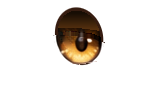
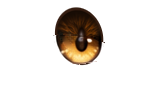
Integrate approved upper-iris part repair [skip ci]
Reuse the exact two reviewed iris textures with their guarded authored caps. Preserve all twenty expression profiles, runtime code, original source art, and import settings. Record provenance and narrowly scoped validation; no new expression or eye-opening qualification.

diff --git a/ryoko_object_rig/tools/verify_approved_integration.py b/ryoko_object_rig/tools/verify_approved_integration.py
@@ -9,15 +9,17 @@ read=lambda n:json.loads((P/n).read_text())
[1 lines of base64/hex data omitted]
 assert not any(p.is_symlink() for p in P.rglob('*')),'symlinks forbidden'
 files={p.relative_to(P).as_posix():sha(p) for p in sorted(P.rglob('*')) if p.is_file()}
-assert len(files)==664,'missing or extra source files, including generated caches'
+assert len(files)==666,'missing or extra source files, including generated caches'
[1 lines of base64/hex data omitted]
 assert all(files[n]==h for n,h in frozen.items()),'historical source evidence changed'
 source=read('DARING_PROVOCATION_SOURCE_MANIFEST.json')['files']|frozen
[1 lines of base64/hex data omitted]
 overlay={'README.md','CONTROL_API.md','LOCAL_CONTROL_BRIDGE.md','PACKAGING.md','RELEASE.json','APPROVED_INTEGRATION_STATUS.json','APPROVED_SOURCE_MANIFEST.json','APPROVED_SOURCE_FILES.sha256','tools/verify_approved_integration.py','expressions/registry.json'}
[1 lines of base64/hex data omitted]
+overlay |= set(repair_hashes)
 assert set(source)<=set(files)
 assert {n for n in source if files[n]!=source[n]}==overlay,'unexpected source delta'
-assert set(files)-set(source)=={'APPROVED_DARING_PROVOCATION_VALIDATION.md','APPROVED_NERVOUS_LAUGH_VALIDATION.md','NERVOUS_LAUGH_CANDIDATE.md','expressions/EXP-148.json'}
+assert set(files)-set(source)=={'APPROVED_DARING_PROVOCATION_VALIDATION.md','APPROVED_NERVOUS_LAUGH_VALIDATION.md','NERVOUS_LAUGH_CANDIDATE.md','expressions/EXP-148.json','UPPER_IRIS_REPAIR.md','UPPER_IRIS_REPAIR.json'}
 assert files['APPROVED_DARING_PROVOCATION_VALIDATION.md']==C['historical_validation_sha256']
 m=read('APPROVED_SOURCE_MANIFEST.json')
 assert m['schema_version']==3 and m['approved_profiles']==20
@@ -53,7 +55,12 @@ assert files['expressions/EXP-148.json']==C['published_profile_sha256']
 assert digest({k:v for k,v in d.items() if k!='status'})==C['acting_sha256']
 assert d['status'].startswith('User-approved') and d['duration']==3.6
 pngs=[n for n in files if n.endswith('.png')];assert len(pngs)==182
-assert all(files[n]==source[n] for n in pngs)
+assert all(files[n]==source[n] for n in pngs if n not in repair_hashes)
+assert all(files[n]==h for n,h in repair_hashes.items())
+part=read('UPPER_IRIS_REPAIR.json')
+assert part['status']=='user_approved_part_repair_integrated' and part['approved_profile_count']==20
+assert part['new_expression_or_eye_opening_capability'] is False
+assert all(part['textures'][eye]['integrated_sha256']==repair_hashes[part['textures'][eye]['path']] for eye in ['screen_left','screen_right'])
 assert sorted(n for n in files if n.endswith('.import'))==['rig_assets/gaze_eyes/iris_screen_left.png.import','rig_assets/gaze_eyes/iris_screen_right.png.import']
 s=read('APPROVED_INTEGRATION_STATUS.json');r=read('RELEASE.json')
 assert s['approved_profile_ids']==r['approved_registry']==ids
@@ -68,4 +75,4 @@ assert all(s[k] is False for k in ['live_engine_pacing_measured','normal_speed_p
 assert s['smooth_realtime_pacing_status']==r['smooth_realtime_pacing_status']=='UNVERIFIED'
 assert s['inherited_exp114_qualification']['smooth_realtime_pacing_status']=='HOLD'
 assert {'EXP-097','EXP-187'}<=set(s['excluded_profile_ids'])
-print('APPROVED_INTEGRATION_GUARD PASS files=664 profiles=20 old_profiles_exact=19 pngs_exact=182 accepted_acting_exact=true runtime_exact=true live_pacing=UNVERIFIED')
+print('APPROVED_INTEGRATION_GUARD PASS files=666 profiles=20 all_profiles_exact=true pngs_preserved=180 approved_repair_pngs=2 accepted_acting_exact=true runtime_code_exact=true live_pacing=UNVERIFIED')

diff --git a/ryoko_object_rig/UPPER_IRIS_REPAIR.md b/ryoko_object_rig/UPPER_IRIS_REPAIR.md
@@ -1,0 +1,19 @@
+# Approved upper-iris part repair
+
+The user approved the two-part comparison before this integration. The exact reviewed textures now replace only the two active gaze iris PNGs. This is newly authored hidden upper-iris/pupil continuation, not recovered original detail. It adds no expression or eye-opening control.
+
+## Scope and preservation
+
+The predecessor is main f3848b3f9ebf365b144f3aadae1cd321665a10fc, whose shared rig is tree e01bda668f821c1bd57210f4eabfa5975859daa7. All twenty expression profiles and the registry, runtime code, scenes, shaders, controls, original source art, and both iris import sidecars remain byte-identical. Of 182 existing PNGs, exactly two change. No files are removed and all other repository roots, including historical backups, remain intact.
+
+The exact reviewed pixels are reused without regeneration or additional painting. Left and right guarded masks cover 1,097 and 886 texels; 1,096 and 880 texels actually change. All alpha and every RGBA value outside those masks remain identical. The one-pixel neutral-aperture guard is untouched. The existing native review captures on this exact base prove pixel-identical centered-neutral eye and bust views. Integration rechecks those saved images and exact source identities; it does not claim a new renderer run or full twenty-expression visual regression.
+
+## Provenance
+
+The original generation, registered mask assembly and review are documented in the [frozen proposal backup](https://github.com/TianJieHeng/ryoko-vtuber/tree/f3848b3f9ebf365b144f3aadae1cd321665a10fc/unapproved/upper-iris-repair-proposal). That folder's unapproved label records its historical backup state and is not modified. Its two proposals are identical to the integrated active textures. Its guarded masks preserve the precise newly authored boundary. UPPER_IRIS_REPAIR.json records exact source, output and mask hashes.
+
+## Verification and limits
+
+Run `python -B tools/verify_approved_integration.py` and `sha256sum -c APPROVED_SOURCE_FILES.sha256` from a clean source copy. The current guard recognizes only these two approved artwork exceptions and continues enforcing unchanged profiles, registry, runtime and other artwork. Earlier validation files retain their original scope and source identities; current manifests supersede their source inventories.
+
+The reviewed fixed 4px fixture remains a private diagnostic, not an accepted production capability. A thin protected-pixel transition and some inherited right highlight streak remain visible when enlarged. Larger openings, general gaze/blink behavior and smooth real-time pacing are not newly qualified. Previous expression holds and exclusions remain unchanged. No new engine/display run, CI, workflow, geometry, control, shader, profile, remote-machine execution, paid resource or hardware operation is part of this integration.

diff --git a/ryoko_object_rig/README.md b/ryoko_object_rig/README.md
@@ -1,3 +1,9 @@
+# Current update: approved upper-iris part repair
+
+The two reviewed upper-iris textures are integrated. Centered neutral is preserved; all twenty profiles, runtime code and original source art are unchanged. This adds no expression or eye-opening capability. See UPPER_IRIS_REPAIR.md and UPPER_IRIS_REPAIR.json for the exact scope, provenance and validation limits. APPROVED_SOURCE_MANIFEST.json and APPROVED_SOURCE_FILES.sha256 are the current inventories. Earlier statements about unchanged artwork below describe the preceding expression integration.
+
+## Previous shared-rig release
+
 # Approved shared rig: twenty performances
 
 Twenty user-approved performances share one rig. EXP-148 Nervous laugh adds the approved 3.6-second performance, with nervous-laugh and nervous_laugh aliases. All nineteen predecessor profiles, production runtime, scenes, shaders, 182 PNGs and both inherited iris import sidecars remain byte-exact. Only EXP-148 approval metadata changes from the reviewed acting profile; its duration, keyframes, controls and curves are unchanged.
